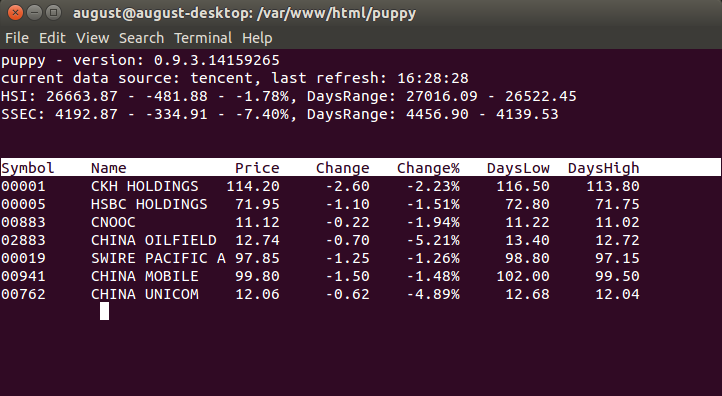
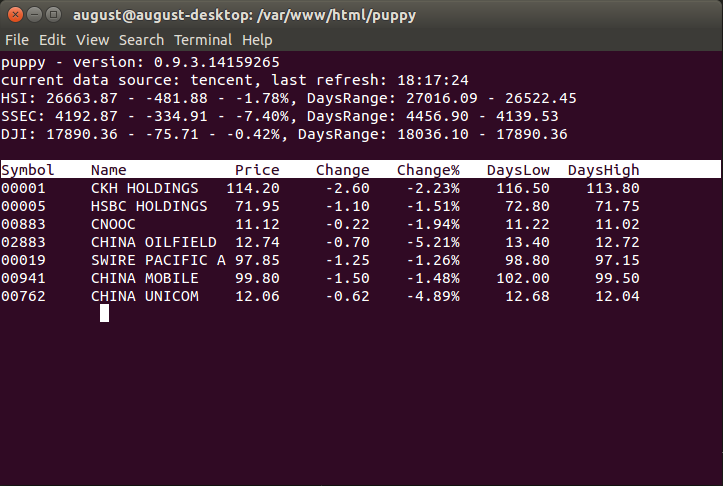
Add DJI as default symbol and update the screenshot

Changed region(s): [[0.0, 0.0, 1.0, 0.8182]]

diff --git a/puppy.py b/puppy.py
@@ -36,6 +36,8 @@ def main() :
       if config.source == 'tencent' :
         shi_quote = quotes.pop(0)
         stdscr.addstr(3, 0, 'SSEC: ' + shi_quote['LastTradePriceOnly'] + ' - ' + shi_quote['Change'] + ' - ' + shi_quote['ChangeinPercent'] + ', DaysRange: ' + shi_quote['DaysLow'] + ' - ' + shi_quote['DaysHigh'])
+        dji_quote = quotes.pop(0)
+        stdscr.addstr(4, 0, 'DJI: ' + dji_quote['LastTradePriceOnly'] + ' - ' + dji_quote['Change'] + ' - ' + dji_quote['ChangeinPercent'] + ', DaysRange: ' + dji_quote['DaysLow'] + ' - ' + dji_quote['DaysHigh'])
 
       placeholder_str = '{symbol:10}{name:15}{price:6}{change:10}{percent:10}{dayslow:10}{dayshigh:30}'
 

diff --git a/lib/core/data.py b/lib/core/data.py
@@ -28,6 +28,7 @@ elif config.source == 'tencent' :
   default_symbos = [
     'hkHSI',
     'sh000001',
+    'usDJI',
   ]
 
   if config['Tencent']['symbols'] != '' :
